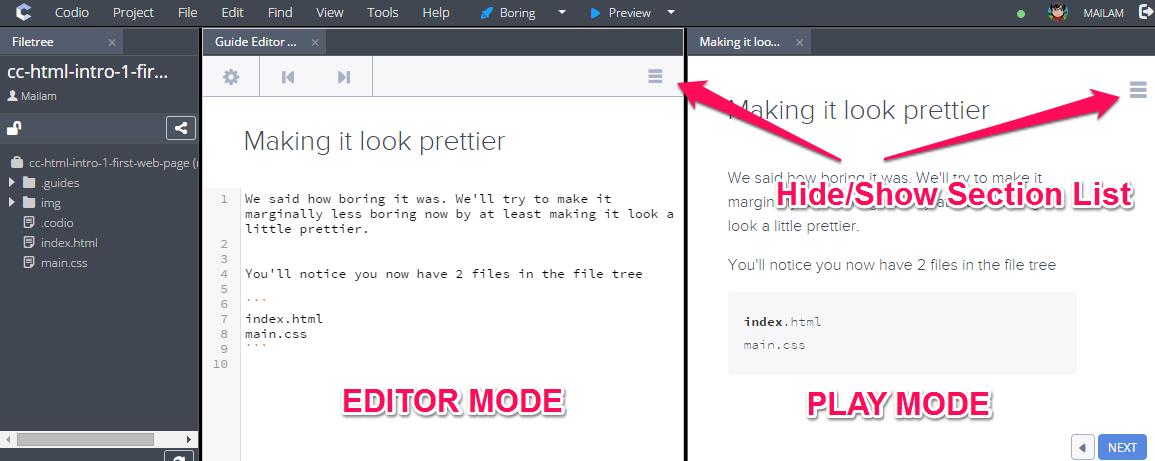
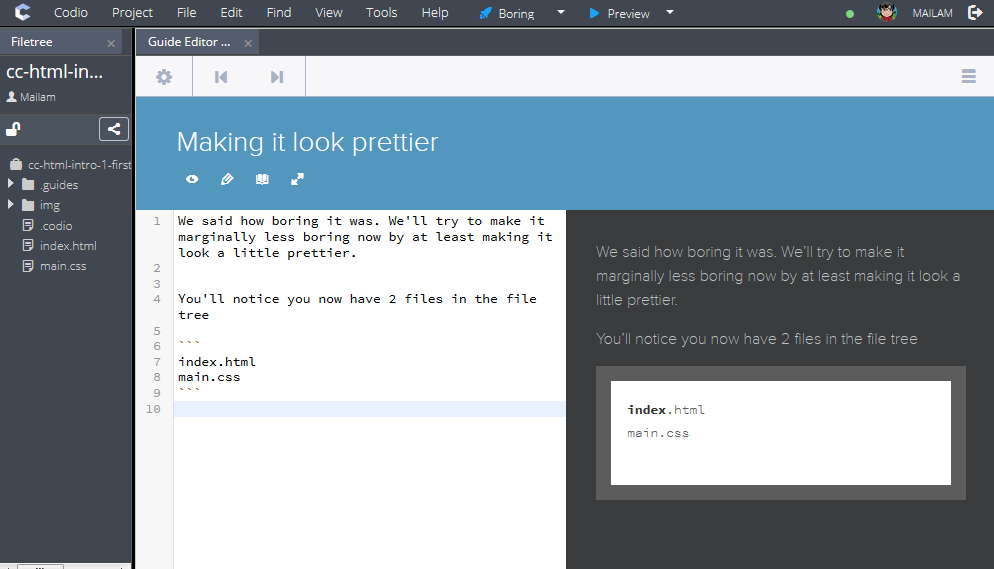
update guides

diff --git a/source/docs/ide/tools/guides/technical.html.md b/source/docs/ide/tools/guides/technical.html.md
@@ -4,15 +4,15 @@ class_name: docs
 full_width: true
 ---
 
-All your guides content is stored in `sections.md` in the `.guides` folder.
+All your guides content is stored in `content` folder in the `.guides` folder.
 
-**Important :** the `sections.md` file should really not be edited. It is fully managed by the Guides editor and is not designed to be edited by hand (and there is no need). If you mess it up, you may have a job getting it back on its feet again.
+**Important :** the files should really not be edited. It is fully managed by the Guides editor and is not designed to be edited by hand (and there is no need). If you mess it up, you may have a job getting it back on its feet again.
 
 ##Images
 It is recommended that you place your images in the `.guides/img` folder, although you don't have to.
 
 ##Other Guides related files
-The goal should generally be to keep all extra files you may use for your Guides specific operations in the `./guides` folder. This way, the rest of your workspace area will appear clean and tidy and empty of rubbish for the student.
+The goal should generally be to keep all extra files you may use for your Guides specific operations in the `.guides` folder. This way, the rest of your workspace area will appear clean and tidy and empty of rubbish for the student.
 
 In Play mode, the `.guides` folder and the `.codio` files are hidden from view.
 

diff --git a/source/docs/ide/tools/guides/real-time.html.md b/source/docs/ide/tools/guides/real-time.html.md
@@ -6,13 +6,9 @@ full_width: true
 
 One really useful thing you can do is to be writing your markdown and at the same time see the output being rendered in Play mode, the way a student will see it.
 
-The simplest way to handle things is to run Play mode from the 'Tools->Guides' menu or 'View->Play Guide' menu.
+The simplest way to handle things is to  switch Layout mode to Split mode by selecting the 3rd from left button below the Section Title.
 
-This usually creates multiple panels for you according to the 'Layouts' setting if the first section in your Guide. This is often likely to be 2 columns.
-
-Next, click on the panel where you want to open the Guide editor (probably the left panel) then open the Guide in Edit mode from the 'Tools->Guides' menu. 
-
-You should now have something like the screenshot below. As you enter your Markdown content in the Guide editor, you will see the Play window updated simultaneously.
+You should now have something like the screenshot below. As you enter your Markdown content in the Guide editor, you will see the Preview window updated simultaneously.
 
 ![](/img/docs/guides/simultaneous.png)
 

diff --git a/source/docs/ide/tools/guides/overview.html.md b/source/docs/ide/tools/guides/overview.html.md
@@ -8,9 +8,9 @@ A Codio project can have a single Guide. Within that Guide you can have as many 
 
 To create a new Guide, or to edit an existing one, go to the 'Tools->Edit Guide' menu option.
 
-You may find it helpful to split Codio into 2 panes using the 'View->Panels' or 'View->Layouts' menu options. This way you can edit your Guides in one pane while working on code in the other.
-
 Having selected 'Edit Guides' you will see your Guides window appear.
+
+Use the Layout modes to switch between preview,code,split and full screen modes
 
 ##Anatomy of the Guides Editor
 Below is a screenshot of the editor with the main components highlighted. 

diff --git a/source/docs/ide/tools/guides/imvid.html.md b/source/docs/ide/tools/guides/imvid.html.md
@@ -5,6 +5,9 @@ full_width: true
 ---
 
 You can insert these in your section editor using Markdown.
+
+**We would recommend that you check out our [Guides Cheat Sheet](https://bitbucket.org/codiocontent/guides-cheat-sheet) and import into your Codio account to review. See [here](/docs/dashboard/projects/creating/)**
+
 ##Images
 Inserting an image is similar. Here are some examples. PNG and JPG image types are supported. Note that the 2nd, 3rd and 4th examples point to images within your project.
 

diff --git a/source/docs/ide/tools/guides/edit.html.md b/source/docs/ide/tools/guides/edit.html.md
@@ -22,6 +22,9 @@ When in Play Mode, your content is rendered beautifully and you can even overrid
 
 You can also insert [images, videos and hyperlinks](/docs/ide/tools/guides/imvid).
 
+
+**We would recommend that you check out our [Guides Cheat Sheet](https://bitbucket.org/codiocontent/guides-cheat-sheet) and import into your Codio account to review. See [here](/docs/dashboard/projects/creating/)**
+
 Here is a summary of the Markdown formatting codes
 
 ##Headers/Titles

diff --git a/source/docs/ide/tools/guides/index.html.md b/source/docs/ide/tools/guides/index.html.md
@@ -8,6 +8,8 @@ full_width: true
 
 Codio Guides is a fully integrated content authoring tool that allows you to write rich tutorial type content using pure markdown.
 
+**We would recommend that you check out our [Guides Cheat Sheet](https://bitbucket.org/codiocontent/guides-cheat-sheet) and import into your Codio account to review. See [here](/docs/dashboard/projects/creating/)**
+
 For an introduction to Guides, take a look at the video below.
 
 <div class="video">
